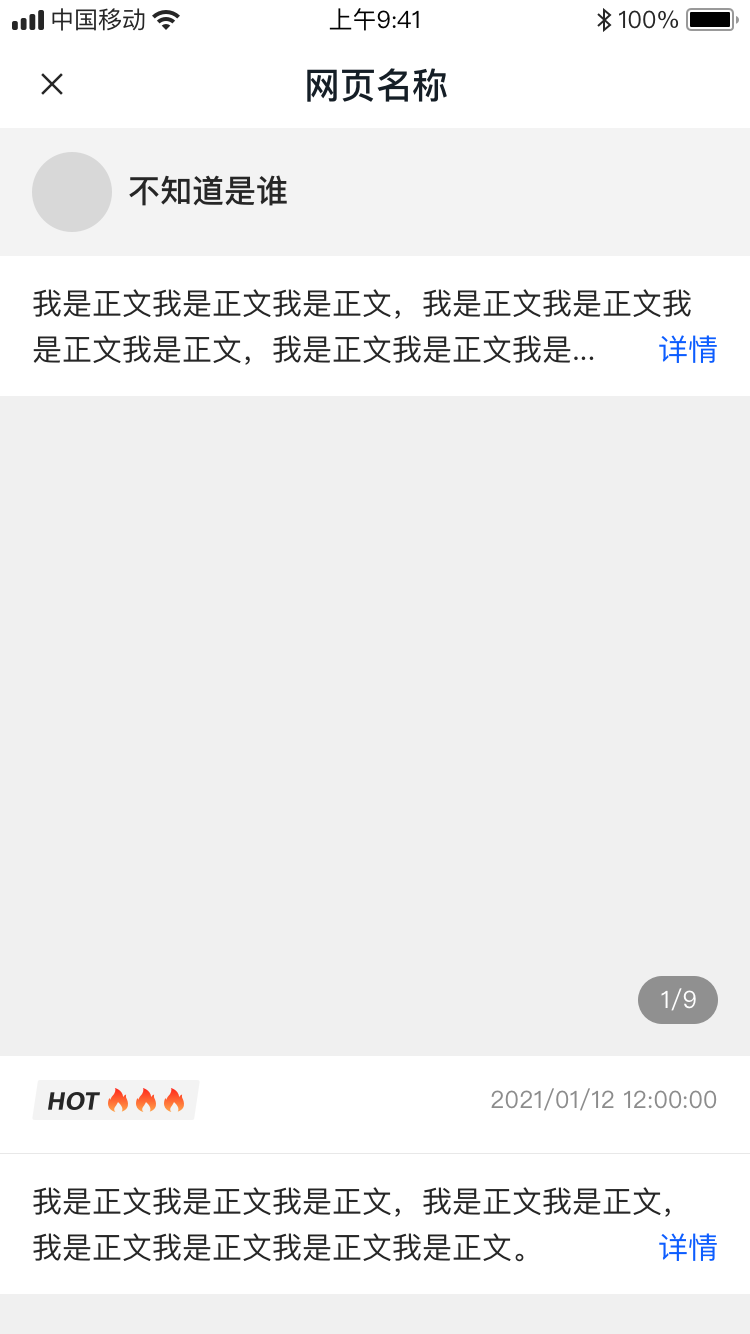
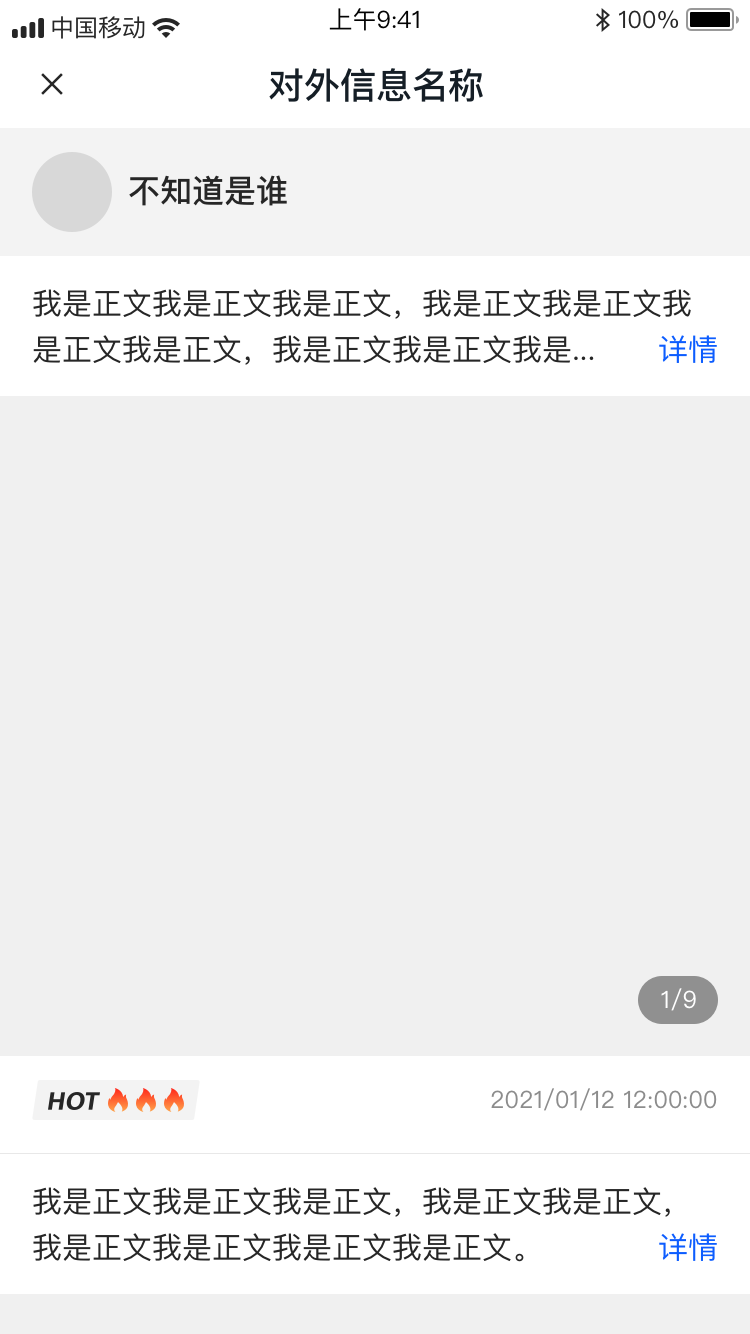
pyq优化

Changed region(s): [[0.368, 0.0307, 0.644, 0.0922], [0.0, 0.0, 0.2453, 0.0307], [0.7973, 0.0, 0.828, 0.0307]]

diff --git a/src/pages/WeWork/FriendsCircle/Edit.vue b/src/pages/WeWork/FriendsCircle/Edit.vue
@@ -12,7 +12,7 @@
       </template>
       <template slot='content'>
         <!-- 基础信息 start -->
-        <recruitment-collapse title='基本信息' phoneTitle='' :phoneBar='styleData.webTitle || "客户"' :isShowPhone='!!model.profileId'>
+        <recruitment-collapse title='基本信息' phoneTitle='' :phoneBar='styleData.name || "客户"' :isShowPhone='!!model.profileId'>
           <template slot='collapse-left'>
             <el-form-item label='内容' prop='content' :rules="[
               { required: true, message: '请输入内容', trigger: ['blur', 'change'] },
@@ -22,6 +22,7 @@
             </el-form-item>
             <el-form-item label='附件' prop='mediaList'>
               <MoveUpload :value='model.mediaList' @input='handleChangeMedia' :mediaType='model.type' :disabled='isEdit'/>
+              <p class='prompt-text'><span class='yellow-point'></span>支持小于2M的jpg、jpeg、png格式图片或小于20M的MP4格式视频</p>
             </el-form-item>
             <el-form-item label='热度' prop='hotLevel' class='larger-item'>
               <star v-model='model.hotLevel' :img='sohot' :voidImg='nothot' :disabled='isEdit'/>
@@ -222,6 +223,18 @@ export default Index
     font-size: 14px;
     color: #595959;
     line-height: 22px;
+  }
+  .prompt-text {
+    display: flex;
+    align-items: center;
+    .yellow-point {
+      background: #F2AA18;
+      display: inline-block;
+      height: 8px;
+      width: 8px;
+      border-radius: 50%;
+      margin-right: 8px;
+    }
   }
 </style>
 <style scoped>

diff --git a/src/pages/WeWork/FriendsCircle/components/Edit/Friend.vue b/src/pages/WeWork/FriendsCircle/components/Edit/Friend.vue
@@ -166,12 +166,12 @@ export default {
     color: #262626;
     line-height: 46px;
     margin-bottom: 16px;
-    overflow: hidden;
-    text-overflow: ellipsis;
-    word-break: break-all;
-    display: -webkit-box;
-    -webkit-line-clamp: 2;
-    -webkit-box-orient: vertical;
+    // overflow: hidden;
+    // text-overflow: ellipsis;
+    // word-break: break-all;
+    // display: -webkit-box;
+    // -webkit-line-clamp: 2;
+    // -webkit-box-orient: vertical;
     position: relative;
     .open-btn {
       position: absolute;

diff --git a/src/pages/WeWork/FriendsCircle/OutEdit.vue b/src/pages/WeWork/FriendsCircle/OutEdit.vue
@@ -54,7 +54,7 @@
                     <el-tooltip  effect='light' popper-class='popperClass' placement="right-end">
                       <ns-button type='text' class='tip-text'>查看示例</ns-button>
                       <template slot='content'>
-                        <img src='./images/pyq.png' class='tip-img'>
+                        <img src='./images/pyq.jpg' class='tip-img'>
                       </template>
                     </el-tooltip>
                   </div>
